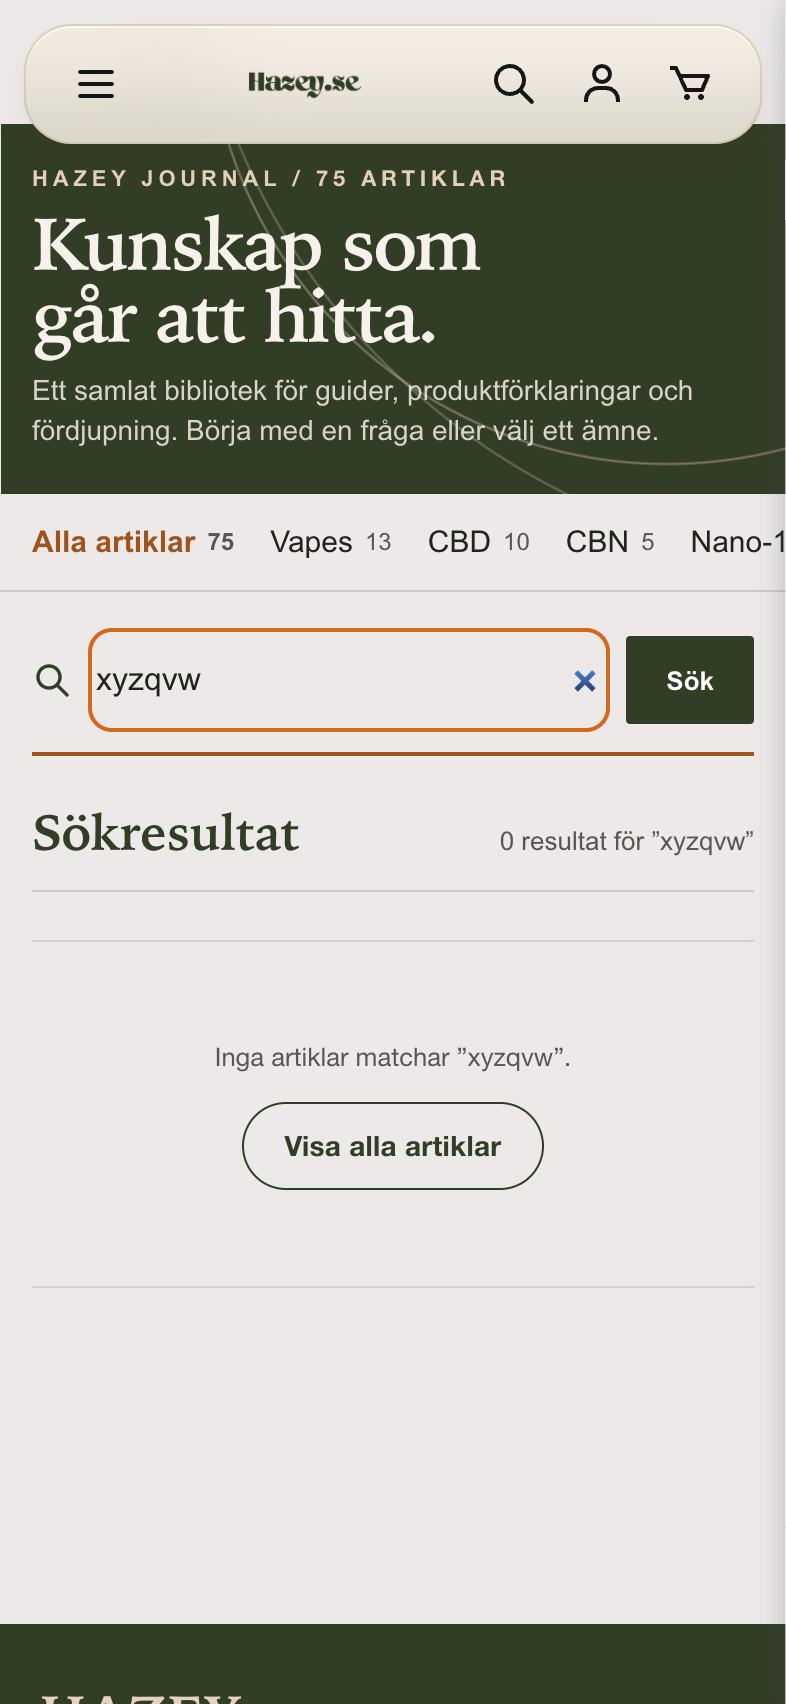
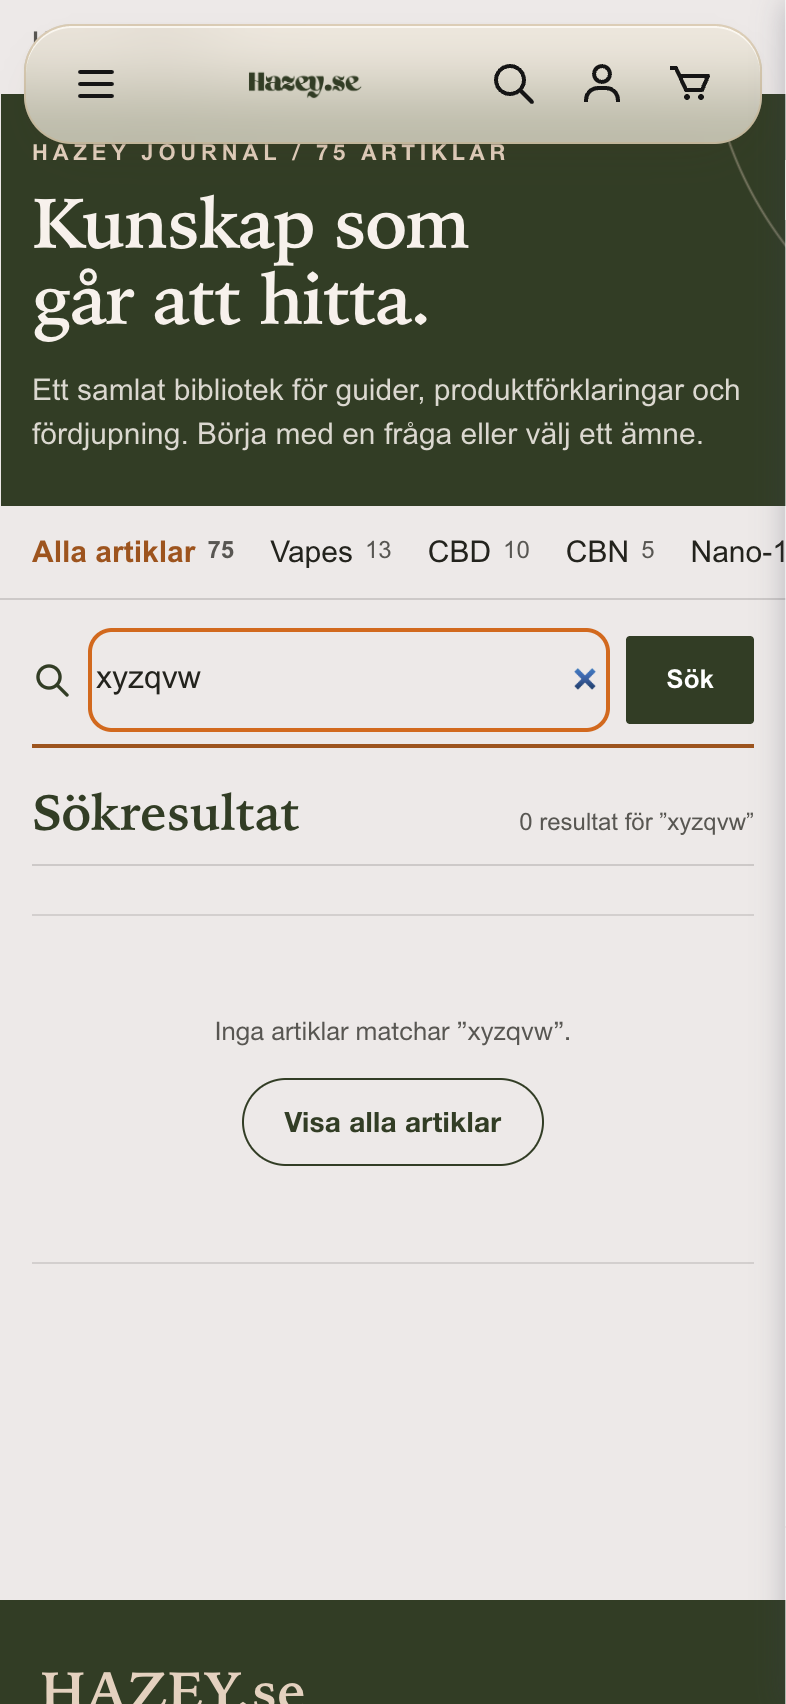
fix(theme8): blog library spacing polish, hero type and list rhythm (TASK 17C)
CSS only, direction B unchanged.
- Hero H1: line-height .98 -> 1.02 desktop / 1.08 mobile so å/ä/g no longer
  meet the next line; H1 -> lede 8 -> 14px mobile, 12 -> 18px desktop.
  Hero padding trimmed so the first article stays where it was (393: row at
  513px vs 511px; 1440: 613px vs 606px).
- Mobile rhythm topics -> 16 -> search -> 18 -> "Alla artiklar" -> 12 -> list;
  at <=380px the result count sits under the heading instead of wrapping.
- Before/after first views at 320/393/430/1440/1920 plus mobile hero
  close-ups (runs/polish-*); focus outlines verified on topics, search,
  button and article links; archive tests green; no horizontal overflow.

diff --git a/theme8/css/90-blog.css b/theme8/css/90-blog.css
@@ -189,7 +189,7 @@ html.hz8[data-hz8-page="blog"] .store-posts { max-width: 1320px; }
 
 /* Hero: full bredd, lägre än skissen */
 html.hz8[data-hz8-page="blog"] .store-posts > .section { padding-top: 10px !important; }
-.hz8-lib__hero { position: relative; isolation: isolate; color: var(--hz8-lib-on); padding: clamp(24px, 2.6vw, 36px) 0 clamp(26px, 2.6vw, 36px); margin-top: 0; }
+.hz8-lib__hero { position: relative; isolation: isolate; color: var(--hz8-lib-on); padding: clamp(24px, 2.3vw, 32px) 0 clamp(26px, 2.3vw, 32px); margin-top: 0; }
 /* Bandet och ringarna ritas i samma full-bredds-pseudo så att dekoren
    aldrig kan sticka ut ur heron. */
 .hz8-lib__hero::before { content: ""; position: absolute; z-index: -1; inset: 0 auto 0 50%; width: 100vw; transform: translateX(-50%); pointer-events: none;
@@ -199,8 +199,8 @@ html.hz8[data-hz8-page="blog"] .store-posts > .section { padding-top: 10px !impo
     var(--hz8-lib-hero); }
 .hz8-lib__heroin { position: relative; max-width: 760px; }
 .hz8-lib__eyebrow { margin: 0 0 12px !important; color: var(--hz8-beige) !important; font: 700 11px/1.3 var(--hz8-bl-sans) !important; letter-spacing: .22em !important; text-transform: uppercase; }
-html.hz8 .hz8-lib .hz8-lib__title { margin: 0 0 12px !important; color: var(--hz8-lib-on) !important; font: 600 clamp(40px, 4.6vw, 68px)/.98 var(--hz8-font-display) !important; letter-spacing: -.035em !important; text-transform: none; text-wrap: balance; }
-.hz8-lib__lede { margin: 0 !important; max-width: 540px; color: color-mix(in srgb, var(--hz8-lib-on) 84%, transparent) !important; font: 400 17px/1.5 var(--hz8-bl-sans) !important; }
+html.hz8 .hz8-lib .hz8-lib__title { margin: 0 0 18px !important; color: var(--hz8-lib-on) !important; font: 600 clamp(40px, 4.6vw, 68px)/1.02 var(--hz8-font-display) !important; letter-spacing: -.035em !important; text-transform: none; text-wrap: balance; }
+.hz8-lib__lede { margin: 0 !important; max-width: 540px; color: color-mix(in srgb, var(--hz8-lib-on) 86%, transparent) !important; font: 400 17px/1.55 var(--hz8-bl-sans) !important; }
 .hz8-lib__seal { position: absolute; right: -340px; bottom: 4px; margin: 0 !important; transform: rotate(-9deg); color: var(--hz8-beige) !important; font: italic 400 23px/1.1 var(--hz8-font-display) !important; white-space: nowrap; }
 
 /* Arbetsyta: ämnen + resultat */
@@ -226,7 +226,7 @@ html.hz8 .hz8-lib .hz8-lib__title { margin: 0 0 12px !important; color: var(--hz
 .hz8-lib__search button:hover { background: var(--hz8-secondary-hover); }
 .hz8-lib__search :is(input, button):focus-visible { outline: 2px solid var(--hz8-focus); outline-offset: 3px; }
 
-.hz8-lib__head { display: flex; justify-content: space-between; align-items: baseline; gap: 16px; padding: 24px 0 14px; border-bottom: 1px solid var(--hz8-lib-line); }
+.hz8-lib__head { display: flex; justify-content: space-between; align-items: baseline; gap: 16px; padding: 26px 0 14px; border-bottom: 1px solid var(--hz8-lib-line); }
 .hz8-lib__head h2 { margin: 0 !important; color: var(--hz8-text-heading) !important; font: 600 29px/1.15 var(--hz8-font-display) !important; }
 .hz8-lib__count { margin: 0 !important; color: var(--hz8-text-muted) !important; font: 400 13px/1.3 var(--hz8-bl-sans) !important; text-align: right; }
 .hz8-lib__list[aria-busy="true"] { min-height: 50vh; }
@@ -268,14 +268,16 @@ html.hz8[data-hz8-page="blog"] .hz8-lib .pagination { margin-top: 30px; }
 }
 @media (max-width: 1100px) { .hz8-lib__seal { display: none; } }
 @media (max-width: 899px) {
-  .hz8-lib__hero { padding: 20px 0 22px; margin-top: 4px; }
-  .hz8-lib__hero .hz8-lib__eyebrow { margin-bottom: 8px !important; }
+  .hz8-lib__hero { padding: 22px 0 24px; margin-top: 4px; }
+  .hz8-lib__hero .hz8-lib__eyebrow { margin-bottom: 10px !important; }
   /* Ringarna ligger utanför texten på smala skärmar. */
   .hz8-lib__hero::before { background:
     radial-gradient(circle at calc(100% + 150px) -40px, transparent 189px, color-mix(in srgb, var(--hz8-beige) 38%, transparent) 190px, transparent 191px),
     var(--hz8-lib-hero); }
-  html.hz8 .hz8-lib .hz8-lib__title { margin-bottom: 8px !important; font-size: clamp(32px, 9.4vw, 44px) !important; }
-  .hz8-lib__lede { font-size: 14px !important; line-height: 1.45 !important; }
+  /* Rubrikens rader och avståndet till ingressen: radhöjd 1,08 så att
+     å/ä/g inte möter raden under, 14px till ingressen (2026-11-12 puts). */
+  html.hz8 .hz8-lib .hz8-lib__title { margin-bottom: 14px !important; font-size: clamp(30px, 9vw, 42px) !important; line-height: 1.08 !important; letter-spacing: -.025em !important; }
+  .hz8-lib__lede { font-size: 15px !important; line-height: 1.5 !important; }
   .hz8-lib__work { display: block; padding-top: 0; }
   .hz8-lib__topics { position: static; margin: 0 -16px; border-bottom: 1px solid var(--hz8-lib-line); }
   .hz8-lib__topics h2 { position: absolute !important; width: 1px; height: 1px; overflow: hidden; clip: rect(0 0 0 0); }
@@ -283,10 +285,14 @@ html.hz8[data-hz8-page="blog"] .hz8-lib .pagination { margin-top: 30px; }
   .hz8-lib__tlist::-webkit-scrollbar { display: none; }
   .hz8-lib__tlist li { flex: none; border: 0; }
   .hz8-lib__tlist button { width: auto; gap: 6px; min-height: 48px; white-space: nowrap; }
-  .hz8-lib__search { margin-top: 18px; }
-  .hz8-lib__search input { font-size: 16px !important; }
+  /* Rytm: ämnesrad -> 16 -> sök -> 18 -> "Alla artiklar" -> 12 -> lista. */
+  .hz8-lib__tlist button { min-height: 46px; }
+  .hz8-lib__search { margin-top: 16px; padding: 2px 0 10px; }
+  .hz8-lib__search input { min-height: 44px; font-size: 16px !important; }
+  .hz8-lib__head { padding: 18px 0 12px; }
   .hz8-lib__head h2 { font-size: 25px !important; }
-  .hz8-lib__item a.hz8-lib__link { grid-template-columns: minmax(0, 1fr) 26px; gap: 6px 12px; padding: 20px 0; }
+  .hz8-lib__count { font-size: 12px !important; }
+  .hz8-lib__item a.hz8-lib__link { grid-template-columns: minmax(0, 1fr) 26px; gap: 6px 12px; padding: 18px 0 20px; }
   .hz8-lib__meta { grid-column: 1 / -1; display: flex; align-items: baseline; gap: 10px; padding: 0; }
   .hz8-lib__n { font-size: 18px !important; }
   .hz8-lib__arrow svg { width: 24px; height: 24px; }
@@ -295,3 +301,9 @@ html.hz8[data-hz8-page="blog"] .hz8-lib .pagination { margin-top: 30px; }
   .hz8-lib__feature .hz8-lib__fmedia { align-self: start; }
 }
 @media (prefers-reduced-motion: reduce) { .hz8-lib__arrow svg { transition: none; } }
+/* Mycket smala skärmar: resultatraden under rubriken i stället för bredvid. */
+@media (max-width: 380px) {
+  .hz8-lib__head { display: grid; gap: 2px; }
+  .hz8-lib__head h2 { white-space: nowrap; }
+  .hz8-lib__count { text-align: left; }
+}
